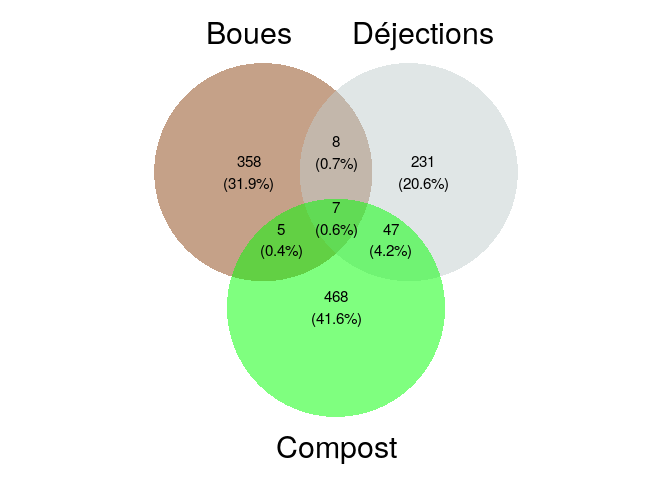
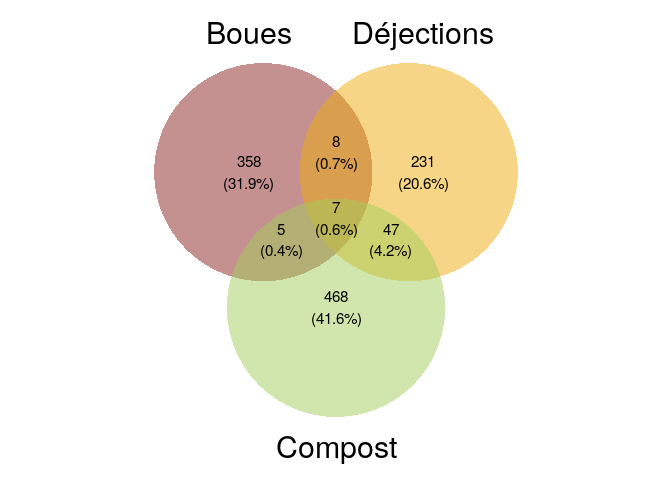
03.01

Changed region(s): [[0.3125, 0.125, 0.7812, 0.875]]

diff --git a/CC2.md b/CC2.md
@@ -556,7 +556,12 @@ ps
 # Courbes de raréfaction
 
 ``` r
-rarecurve(seqtabNoC, step=10, ylab="ASVs", label=F)
+col_boues <- "brown4"
+col_déjections <- "darkgoldenrod2"
+col_compost <- "darkolivegreen3"
+colors <- c(col_compost, col_compost, col_compost, col_compost, col_compost, col_boues, col_boues, col_déjections, col_boues, col_déjections, col_déjections, col_déjections, col_boues, col_boues, col_déjections)
+rarecurve(seqtabNoC, step=1000, ylab="ASVs", col=colors, label=F)
+legend("bottomright", legend=c("Boues","Déjections","Compost"), fill=c(col_boues,col_déjections,col_compost))
 ```
 
 ![](CC2_files/figure-gfm/unnamed-chunk-26-1.png)<!-- --> Cela montre que
@@ -601,7 +606,8 @@ abondance supérieure à celle des Sumerlaeota.
 
 ``` r
 ps@sam_data$Types <- factor(ps@sam_data$Types, levels=c("Boues", "Déjections", "Compost"))
-plot_richness(ps, x="Types", measures="Chao1")
+plot_richness(ps, x="Types", measures="Chao1", color="Types")+
+scale_color_manual(values=c(col_boues, col_déjections, col_compost))
 ```
 
 ![](CC2_files/figure-gfm/unnamed-chunk-28-1.png)<!-- -->
@@ -661,7 +667,8 @@ ord.nmds.bray <- ordinate(ps.prop, method="NMDS", distance="bray")
     ## you may have insufficient data
 
 ``` r
-plot_ordination(ps.prop, ord.nmds.bray, color="Types", title="Bray-Curtis")
+plot_ordination(ps.prop, ord.nmds.bray, color="Types", title="Bray-Curtis")+
+scale_color_manual(values=c(col_boues, col_déjections, col_compost))
 ```
 
 ![](CC2_files/figure-gfm/unnamed-chunk-29-1.png)<!-- --> Les
@@ -694,8 +701,8 @@ pres_abs <- pres_abs[,-3]
 
 # Conception du diagramme
 ASVlist <- list(Boues=pres_abs$ASV[pres_abs$Types=="Boues"], Déjections=pres_abs$ASV[pres_abs$Types=="Déjections"], Compost=pres_abs$ASV[pres_abs$Types=="Compost"])
-library("ggvenn")
-ggvenn(ASVlist, fill_color = c("chocolate4", "azure3", "green"), stroke_linetype = "blank", set_name_size = 8)
+
+ggvenn(ASVlist, fill_color = c(col_boues, col_déjections, col_compost), stroke_linetype = "blank", set_name_size = 8)
 ```
 
 ![](CC2_files/figure-gfm/unnamed-chunk-30-1.png)<!-- --> Ici, chaque
